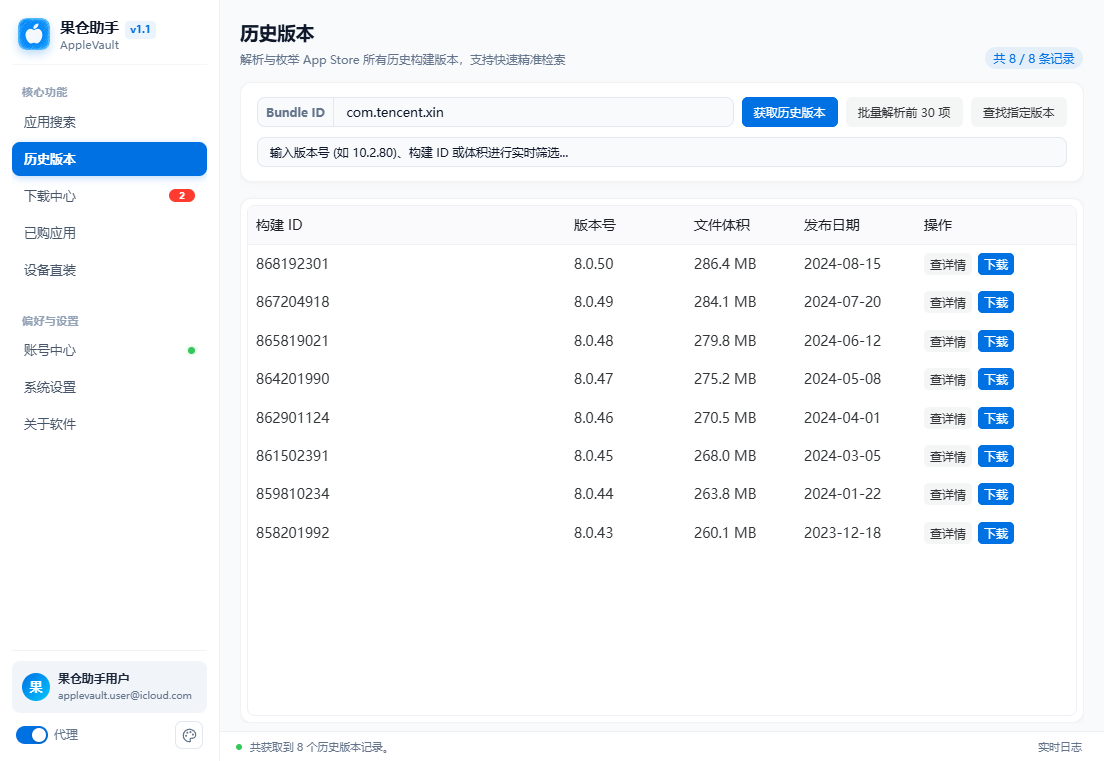
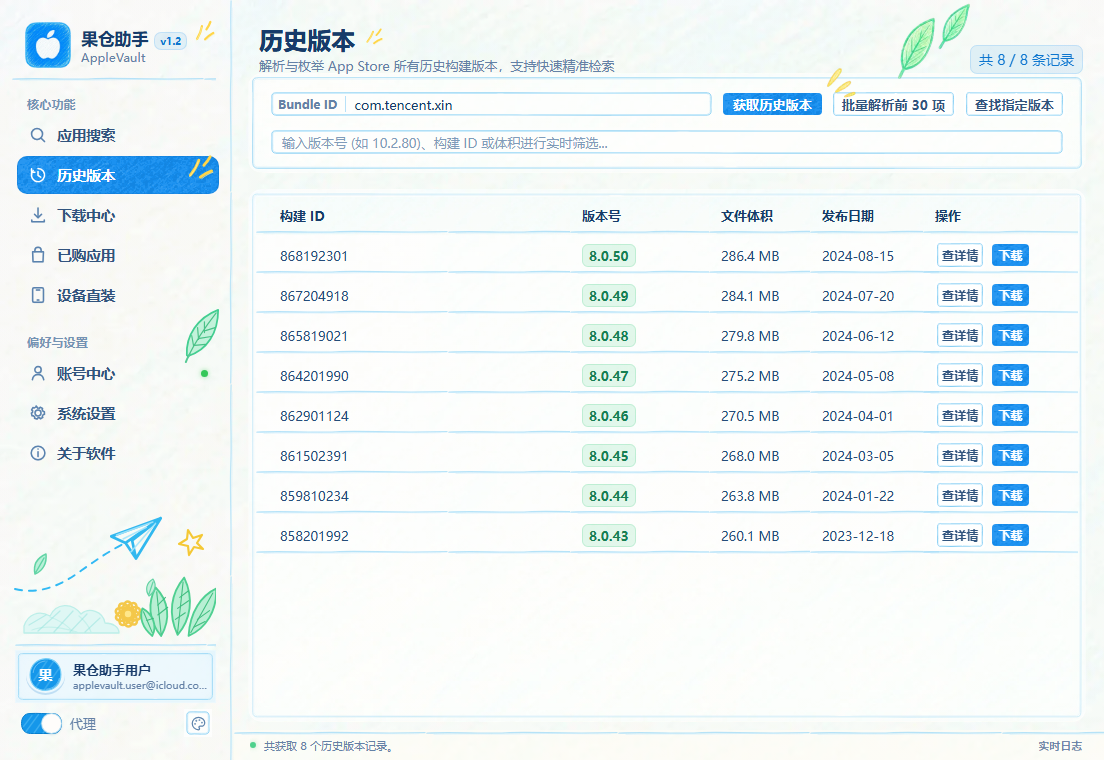
docs: 更新手绘主题真实预览截图并补充自动化截图工具与前端预览垫片

diff --git a/src/frontend/src/components/MainView.vue b/src/frontend/src/components/MainView.vue
@@ -233,23 +233,107 @@ function handleCancel() {
   statusText.value = '已终止当前操作'
 }
 
+// 演示模式提示文案字典
+const demoStatusByTab: Record<string, string> = {
+  search: '搜索完成，找到 6 个应用。',
+  versions: '共获取 8 个历史版本记录。',
+  download: '当前有 1 个任务正在下载，速度 12.8 MB/s',
+  purchased: '已购应用加载完成（共 6 款）。',
+  installer: '已就绪，已检测到 iPhone 15 Pro Max',
+  account: '已登录 果仓助手用户（applevault.user@icloud.com）',
+  settings: '底层引擎就绪，配置已加载',
+  about: '果仓助手 (AppleVault) v1.2.0'
+}
+
+/**
+ * 填充演示与截图所需的 Mock 数据
+ */
+function applyDemoMockData(tabParam: string | null) {
+  currentAccount.value = { name: '果仓助手用户', email: 'applevault.user@icloud.com', success: true }
+  statusText.value = demoStatusByTab[tabParam || activeTab.value] || '就绪'
+
+  if (searchViewRef.value) {
+    searchViewRef.value.searchForm.term = '微信'
+    searchViewRef.value.searchResults = [
+      { id: 414478124, bundleID: 'com.tencent.xin', name: '微信 (WeChat)', version: '8.0.50', price: 0, displayPrice: '免费' },
+      { id: 333206289, bundleID: 'com.alipay.iphoneclient', name: '支付宝 - 生活好 支付宝', version: '10.5.88', price: 0, displayPrice: '免费' },
+      { id: 736536022, bundleID: 'tv.danmaku.bilianime', name: '哔哩哔哩 (Bilibili)', version: '7.82.0', price: 0, displayPrice: '免费' },
+      { id: 590338362, bundleID: 'com.netease.cloudmusic', name: '网易云音乐', version: '9.0.70', price: 0, displayPrice: '免费' },
+      { id: 835599320, bundleID: 'com.zhiliaoapp.musically', name: 'TikTok - 精彩短视频与音乐', version: '35.8.0', price: 0, displayPrice: '免费' },
+      { id: 444934666, bundleID: 'com.tencent.mqq', name: 'QQ - 轻松做自己', version: '9.0.65', price: 0, displayPrice: '免费' }
+    ]
+  }
+
+  if (versionsViewRef.value) {
+    versionsViewRef.value.versionForm.bundleId = 'com.tencent.xin'
+    versionsViewRef.value.versionForm.appName = '微信'
+    versionsViewRef.value.versionItems = [
+      { versionId: '868192301', displayVersion: '8.0.50', fileSize: '286.4 MB', releaseDate: '2024-08-15' },
+      { versionId: '867204918', displayVersion: '8.0.49', fileSize: '284.1 MB', releaseDate: '2024-07-20' },
+      { versionId: '865819021', displayVersion: '8.0.48', fileSize: '279.8 MB', releaseDate: '2024-06-12' },
+      { versionId: '864201990', displayVersion: '8.0.47', fileSize: '275.2 MB', releaseDate: '2024-05-08' },
+      { versionId: '862901124', displayVersion: '8.0.46', fileSize: '270.5 MB', releaseDate: '2024-04-01' },
+      { versionId: '861502391', displayVersion: '8.0.45', fileSize: '268.0 MB', releaseDate: '2024-03-05' },
+      { versionId: '859810234', displayVersion: '8.0.44', fileSize: '263.8 MB', releaseDate: '2024-01-22' },
+      { versionId: '858201992', displayVersion: '8.0.43', fileSize: '260.1 MB', releaseDate: '2023-12-18' }
+    ]
+  }
+
+  if (downloadViewRef.value) {
+    downloadViewRef.value.downloadTasks = [
+      { id: '1', appName: '微信 (WeChat)', bundleID: 'com.tencent.xin', appId: 414478124, version: '8.0.50', versionId: '868192301', fileSize: '286.4 MB', totalBytes: 300312000, currBytes: 195202800, progress: 65, speed: '12.8 MB/s', status: 'downloading', outputPath: '', errorMessage: '', createdAt: '2024-08-20 15:30:12' },
+      { id: '2', appName: '支付宝', bundleID: 'com.alipay.iphoneclient', appId: 333206289, version: '10.5.88', versionId: '865001129', fileSize: '142.0 MB', totalBytes: 148897000, currBytes: 148897000, progress: 100, speed: '已完成', status: 'completed', outputPath: 'data/downloads/user@icloud.com/alipay.ipa', errorMessage: '', createdAt: '2024-08-20 15:24:05' },
+      { id: '3', appName: 'Infuse · 精彩影音播放器', bundleID: 'com.firecore.infuse', appId: 1136220934, version: '7.7.2', versionId: '863920191', fileSize: '118.5 MB', totalBytes: 124256256, currBytes: 124256256, progress: 100, speed: '已完成', status: 'completed', outputPath: 'data/downloads/user@icloud.com/infuse.ipa', errorMessage: '', createdAt: '2024-08-20 14:10:33' },
+      { id: '4', appName: '网易云音乐', bundleID: 'com.netease.cloudmusic', appId: 590338362, version: '9.0.70', versionId: '864201991', fileSize: '215.3 MB', totalBytes: 225758413, currBytes: 0, progress: 0, speed: '等待中', status: 'pending', outputPath: '', errorMessage: '', createdAt: '2024-08-20 15:31:00' }
+    ]
+  }
+
+  if (purchasedViewRef.value) {
+    purchasedViewRef.value.purchasedApps = [
+      { id: 414478124, bundleID: 'com.tencent.xin', name: '微信 (WeChat)', version: '8.0.50', price: 0, purchaseDate: '2024-01-15 10:20', displayPrice: '已购' },
+      { id: 333206289, bundleID: 'com.alipay.iphoneclient', name: '支付宝', version: '10.5.88', price: 0, purchaseDate: '2024-02-08 14:12', displayPrice: '已购' },
+      { id: 1136220934, bundleID: 'com.firecore.infuse', name: 'Infuse • 精彩影音播放器', version: '7.7.2', price: 0, purchaseDate: '2024-03-22 09:45', displayPrice: '已购' },
+      { id: 916364737, bundleID: 'com.procreate.pocket', name: 'Procreate Pocket', version: '4.0.11', price: 0, purchaseDate: '2024-04-10 18:30', displayPrice: '已购' },
+      { id: 1596487405, bundleID: 'com.taguirov.adam.WebDAV', name: 'WebDAV Manager', version: '2.1.0', price: 0, purchaseDate: '2024-05-19 16:30', displayPrice: '已购' },
+      { id: 736536022, bundleID: 'tv.danmaku.bilianime', name: '哔哩哔哩 (Bilibili)', version: '7.82.0', price: 0, purchaseDate: '2024-06-01 21:05', displayPrice: '已购' }
+    ]
+    purchasedViewRef.value.purchasedTotal = 6
+  }
+
+  if (installerViewRef.value) {
+    installerViewRef.value.devices = [
+      { udid: '00008130-001A49021E28001C', name: 'iPhone 15 Pro Max', productType: 'iPhone 15 Pro Max', productVersion: '17.5.1', connectionType: 'USB 3.0' }
+    ]
+    installerViewRef.value.selectedDeviceUDID = '00008130-001A49021E28001C'
+    installerViewRef.value.selectedIPAPath = 'D:\\Dev\\AppleVault\\data\\downloads\\applevault.user@icloud.com\\WeChat_8.0.50.ipa'
+  }
+
+  if (accountViewRef.value) {
+    accountViewRef.value.account = { name: '果仓助手用户', email: 'applevault.user@icloud.com', success: true }
+  }
+
+  if (settingsViewRef.value) {
+    settingsViewRef.value.settings.proxyUrl = 'http://127.0.0.1:7890'
+    settingsViewRef.value.settings.defaultDownloadDir = 'D:\\Dev\\AppleVault\\data\\downloads\\applevault.user'
+  }
+}
+
 // 生命周期与 Wails 系统事件
 onMounted(() => {
   const urlParams = new URLSearchParams(window.location.search)
   const tabParam = urlParams.get('tab')
   const isDemo = urlParams.get('demo') === '1'
 
+  if (tabParam) {
+    activeTab.value = tabParam
+  }
+
   if (isDemo) {
-    currentAccount.value = { name: '果仓助手用户', email: 'applevault.user@icloud.com', success: true }
-    statusText.value = '就绪 (Demo 模式)'
+    applyDemoMockData(tabParam)
   } else {
     void settingsViewRef.value?.loadSettings()
     void accountViewRef.value?.refreshAccount(true)
     void downloadViewRef.value?.loadDownloadTasks()
-  }
-
-  if (tabParam) {
-    activeTab.value = tabParam
   }
 
   // 接收文件拖放

diff --git a/src/frontend/src/main.ts b/src/frontend/src/main.ts
@@ -1,3 +1,48 @@
+// 浏览器开发与预览环境下的 Wails 接口垫片
+if (typeof window !== 'undefined') {
+  if (!(window as any).runtime) {
+    ;(window as any).runtime = {
+      EventsOn: () => () => {},
+      EventsOnMultiple: () => () => {},
+      OnFileDrop: () => {},
+      OnFileDropOff: () => {},
+      BrowserOpenURL: (url: string) => window.open(url, '_blank'),
+      LogPrint: () => {},
+      LogTrace: () => {},
+      LogDebug: () => {},
+      LogInfo: () => {},
+      LogWarning: () => {},
+      LogError: () => {},
+      LogFatal: () => {},
+      WindowSetTitle: () => {},
+      WindowFullscreen: () => {},
+      WindowUnfullscreen: () => {},
+      WindowSetSize: () => {},
+      WindowGetSize: () => Promise.resolve({ w: 1024, h: 768 }),
+      WindowSetPosition: () => {},
+      WindowGetPosition: () => Promise.resolve({ x: 0, y: 0 }),
+      WindowHide: () => {},
+      WindowShow: () => {},
+      WindowCenter: () => {},
+      Quit: () => {}
+    }
+  }
+  if (!(window as any).go) {
+    ;(window as any).go = {
+      backend: {
+        App: new Proxy({}, {
+          get: (_target, prop) => {
+            return (..._args: any[]) => {
+              console.log(`[Wails Mock] backend.App.${String(prop)} called`)
+              return Promise.resolve({})
+            }
+          }
+        })
+      }
+    }
+  }
+}
+
 import { createApp } from 'vue'
 import App from './App.vue'
 import 'virtual:uno.css'

diff --git a/src/frontend/src/ui/theme.ts b/src/frontend/src/ui/theme.ts
@@ -37,7 +37,10 @@ export function applyTheme(theme: AppTheme) {
 }
 
 export function useAppTheme() {
-  const currentTheme = ref<AppTheme>(normalizeTheme(localStorage.getItem(THEME_STORAGE_KEY)))
+  const urlParams = typeof window !== 'undefined' ? new URLSearchParams(window.location.search) : null
+  const urlTheme = urlParams?.get('theme')
+  const initialTheme = normalizeTheme(urlTheme || localStorage.getItem(THEME_STORAGE_KEY))
+  const currentTheme = ref<AppTheme>(initialTheme)
   const isDark = computed(() => currentTheme.value === 'minimal-dark')
   applyTheme(currentTheme.value)
   watch(currentTheme, theme => {
